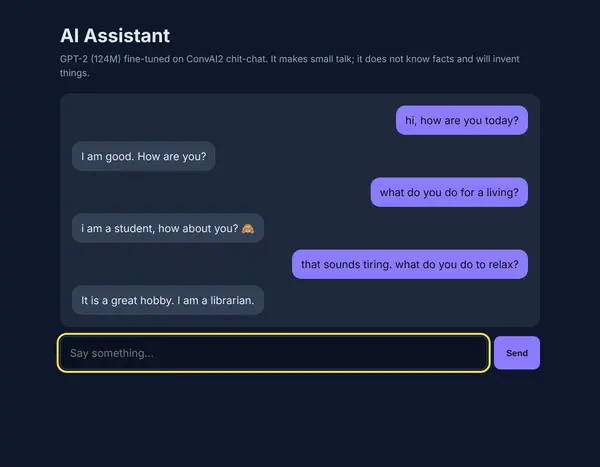
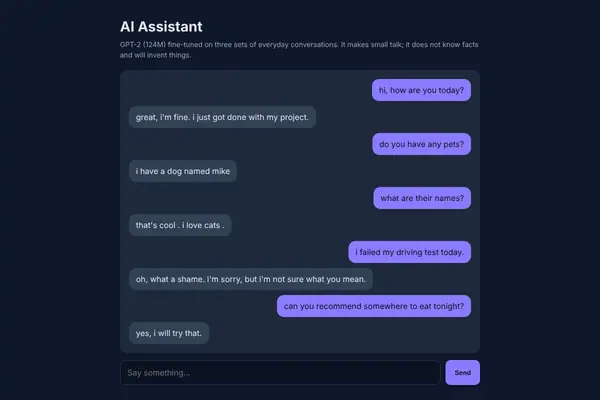
Show the AI Assistant's three-dataset retraining
The case study now reports per-dataset perplexity against untuned GPT-2 and the
ConvAI2-only model, says the 2024 run was on a CPU with custom dialogues that
were later lost, and shows a 2026 chat that is honest about what the model
still gets wrong.

diff --git a/workers/voice-agent/knowledge.md b/workers/voice-agent/knowledge.md
@@ -83,8 +83,13 @@ be stated as fact.
 - CRM reporting for Industrial Temps (the agency's CRM was bespoke): a data quality framework, ETL with Access
   and Power Query, and Power BI dashboards.
 - AI Assistant: GPT-2 fine-tuned on dialogue data with Hugging Face
-  Transformers, served through a Flask API with web, desktop and Streamlit
-  interfaces.
+  Transformers, served through a Flask API with web, desktop, Streamlit and
+  React interfaces. First trained on a CPU in 2024. Revisited in November 2026:
+  a sampling bug fixed, then retrained on three public dialogue datasets
+  (ConvAI2, DailyDialog, Blended Skill Talk). Held-out perplexity is 48 to 66
+  per cent below untuned GPT-2 across the three. It still only makes small
+  talk and forgets what it said. The code is public; the weights are not,
+  because DailyDialog is non-commercial.
 - McNeillium_AI: a Python pipeline that makes narrated, captioned explainer
   videos (Claude scripts, ElevenLabs narration, FFmpeg assembly) with
   speech-to-text and source checks; six explainers of Paul's work are built but
